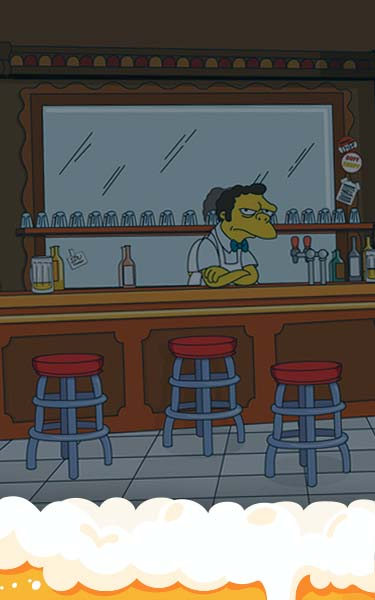
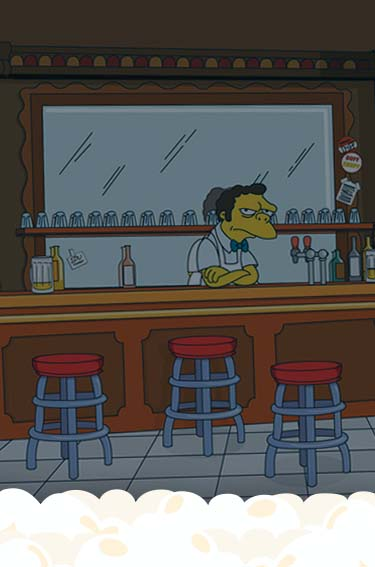
screen size

diff --git a/src/pages/Game.js b/src/pages/Game.js
@@ -366,7 +366,7 @@ class Game extends Component {
             </div>
             {this.props.counter === true && <Countdown time={this.state.time} color={this.state.color}></Countdown>}
           </div>
-          <div style={{ position: 'relative', height: '600px', width: '375', top: '35px' }}>
+          <div style={{ position: 'relative', height: '600px', width: '375', top: '20px' }}>
             <MoveBart left={bartDepart} bartGoRight={this.bartGoRight} endGame={brickWall} />
             {this.state.brickWall.map(item => {
               return (

diff --git a/src/pages/Game.css b/src/pages/Game.css
@@ -1,8 +1,7 @@
 .background {
     background: url("../images/background.jpg")no-repeat;
     width: 360px;
-    height: 600px;
-    margin: 0 auto;
+    height: 567px;
     display: block;
 }
 
@@ -39,7 +38,8 @@
 
 .life:before, .noLife:before {
     content: '\2665';
-    font-size: 2em;}
+    font-size: 1.5em;
+}
 
 .life:before {
     color: red;
